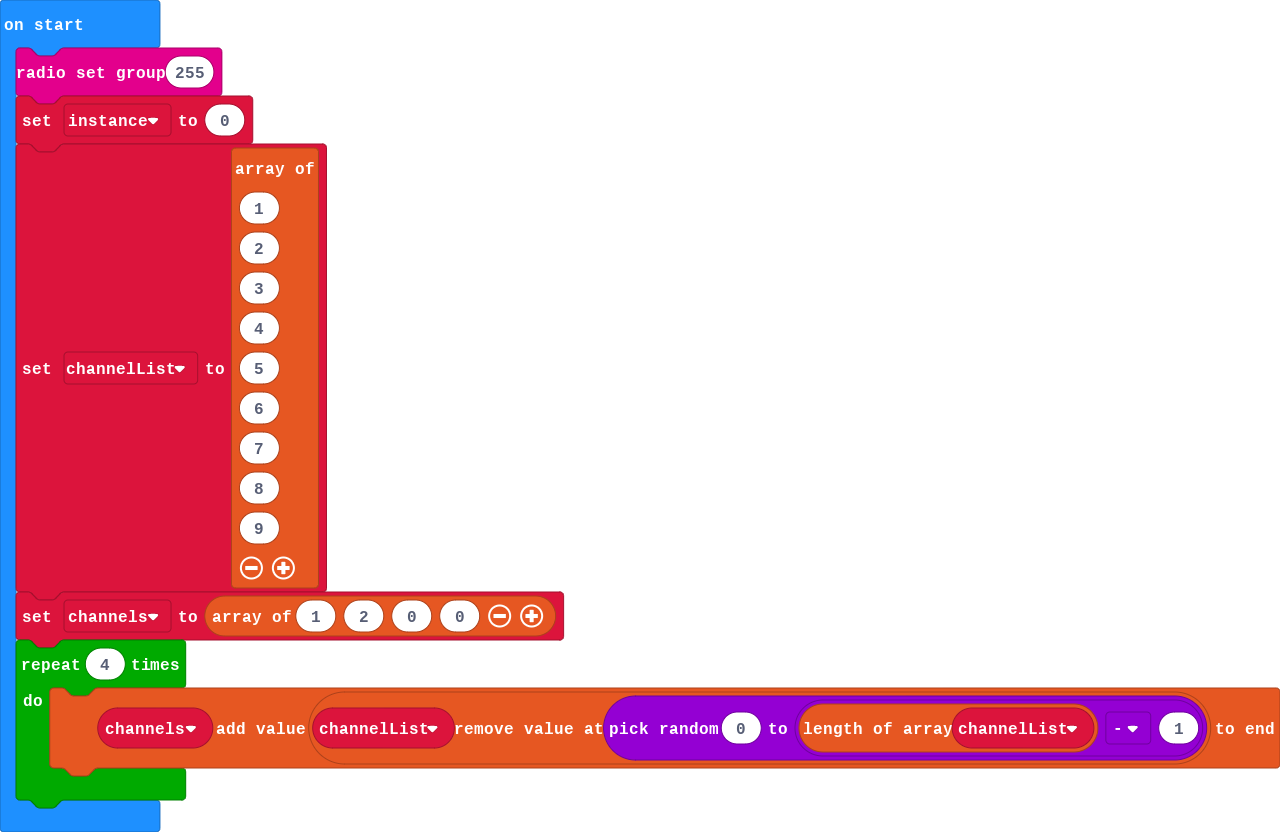
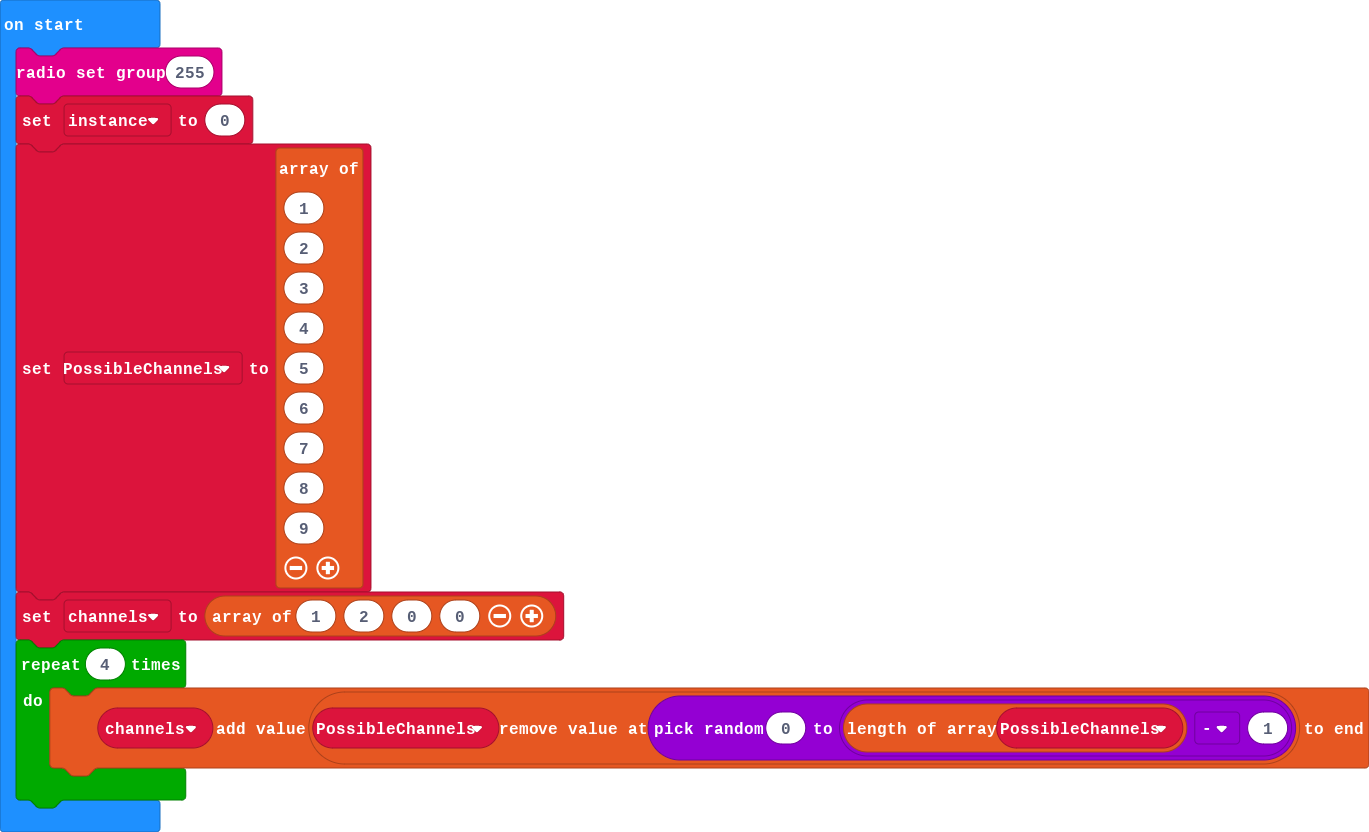
Update main.blocks, main.ts

diff --git a/main.ts b/main.ts
@@ -1,7 +1,7 @@
 radio.setGroup(255)
 let instance = 0
-let channelList = [1, 2, 3, 4, 5, 6, 7, 8, 9]
+let PossibleChannels = [1, 2, 3, 4, 5, 6, 7, 8, 9]
 let channels = [1, 2, 0, 0]
 for (let index = 0; index < 4; index++) {
-    channels.push(channelList.removeAt(Math.randomRange(0, channelList.length - 1)))
+    channels.push(PossibleChannels.removeAt(Math.randomRange(0, PossibleChannels.length - 1)))
 }
